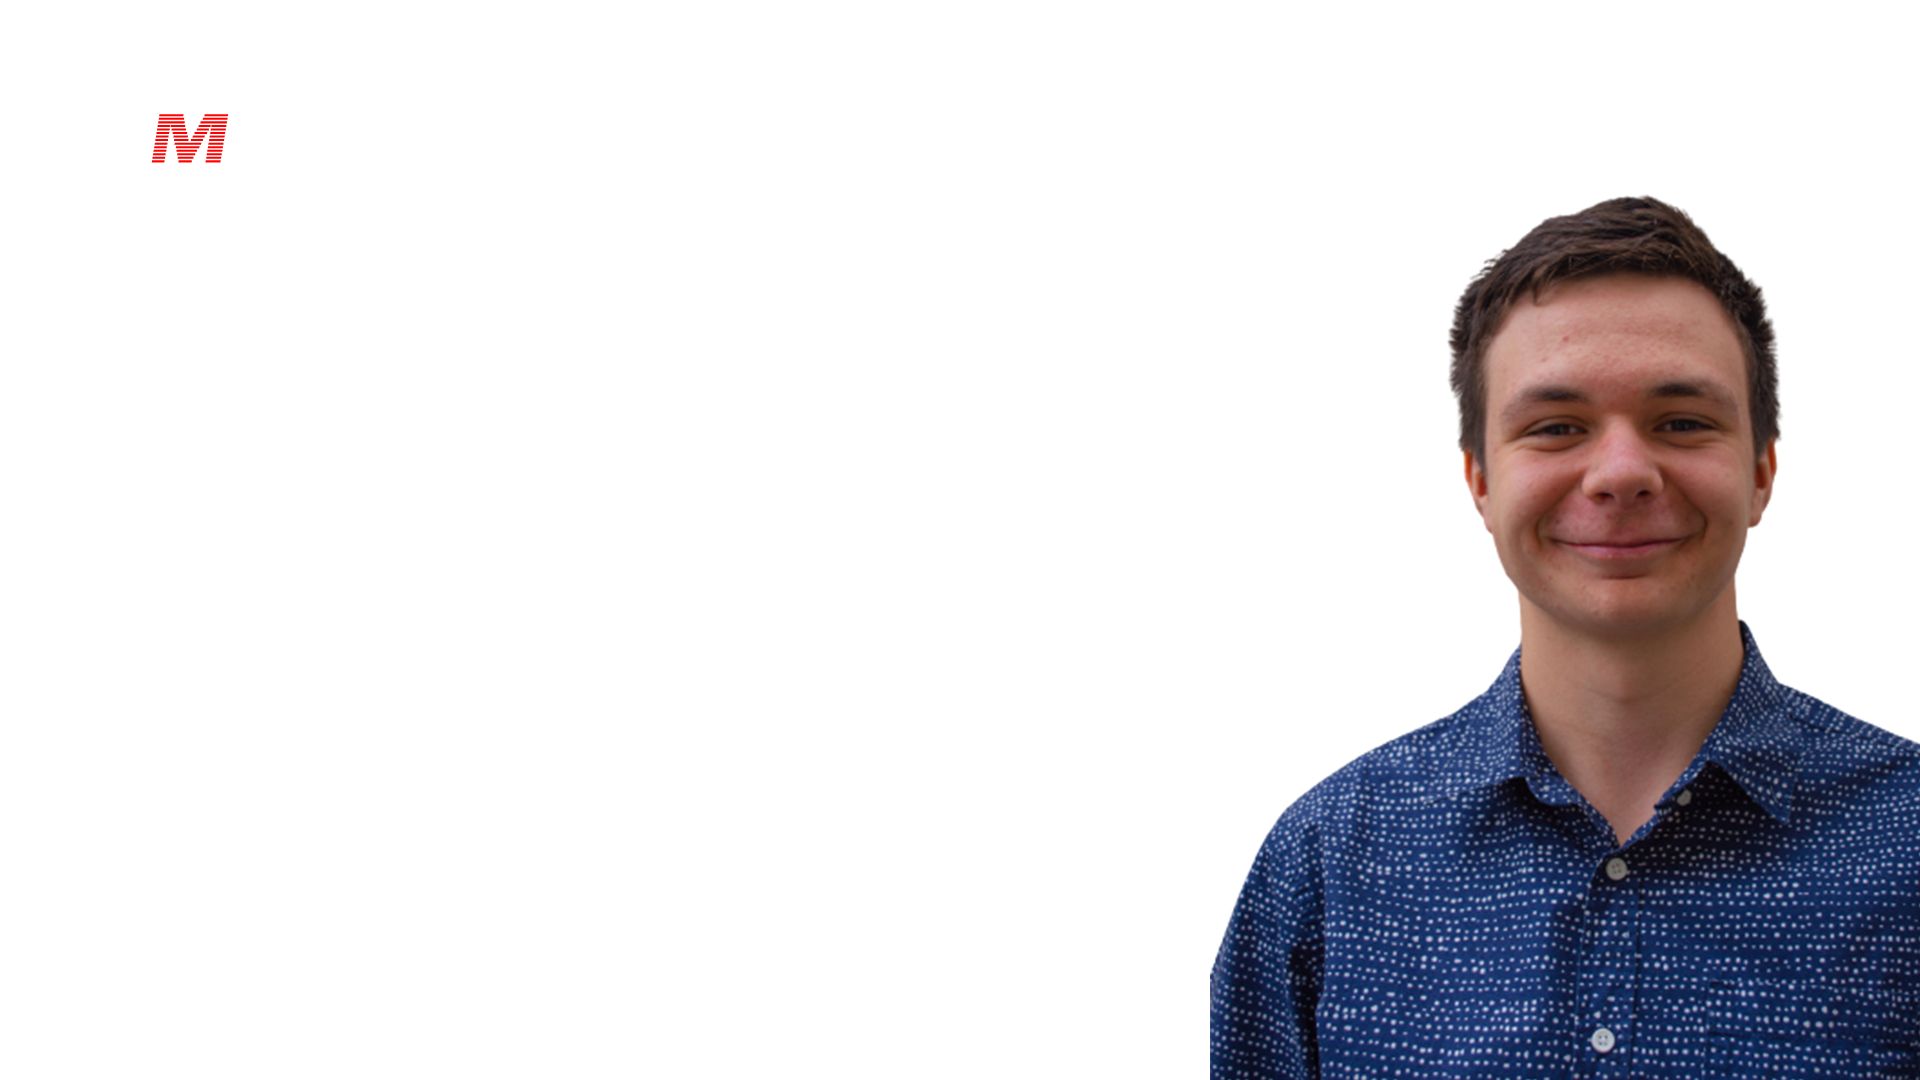
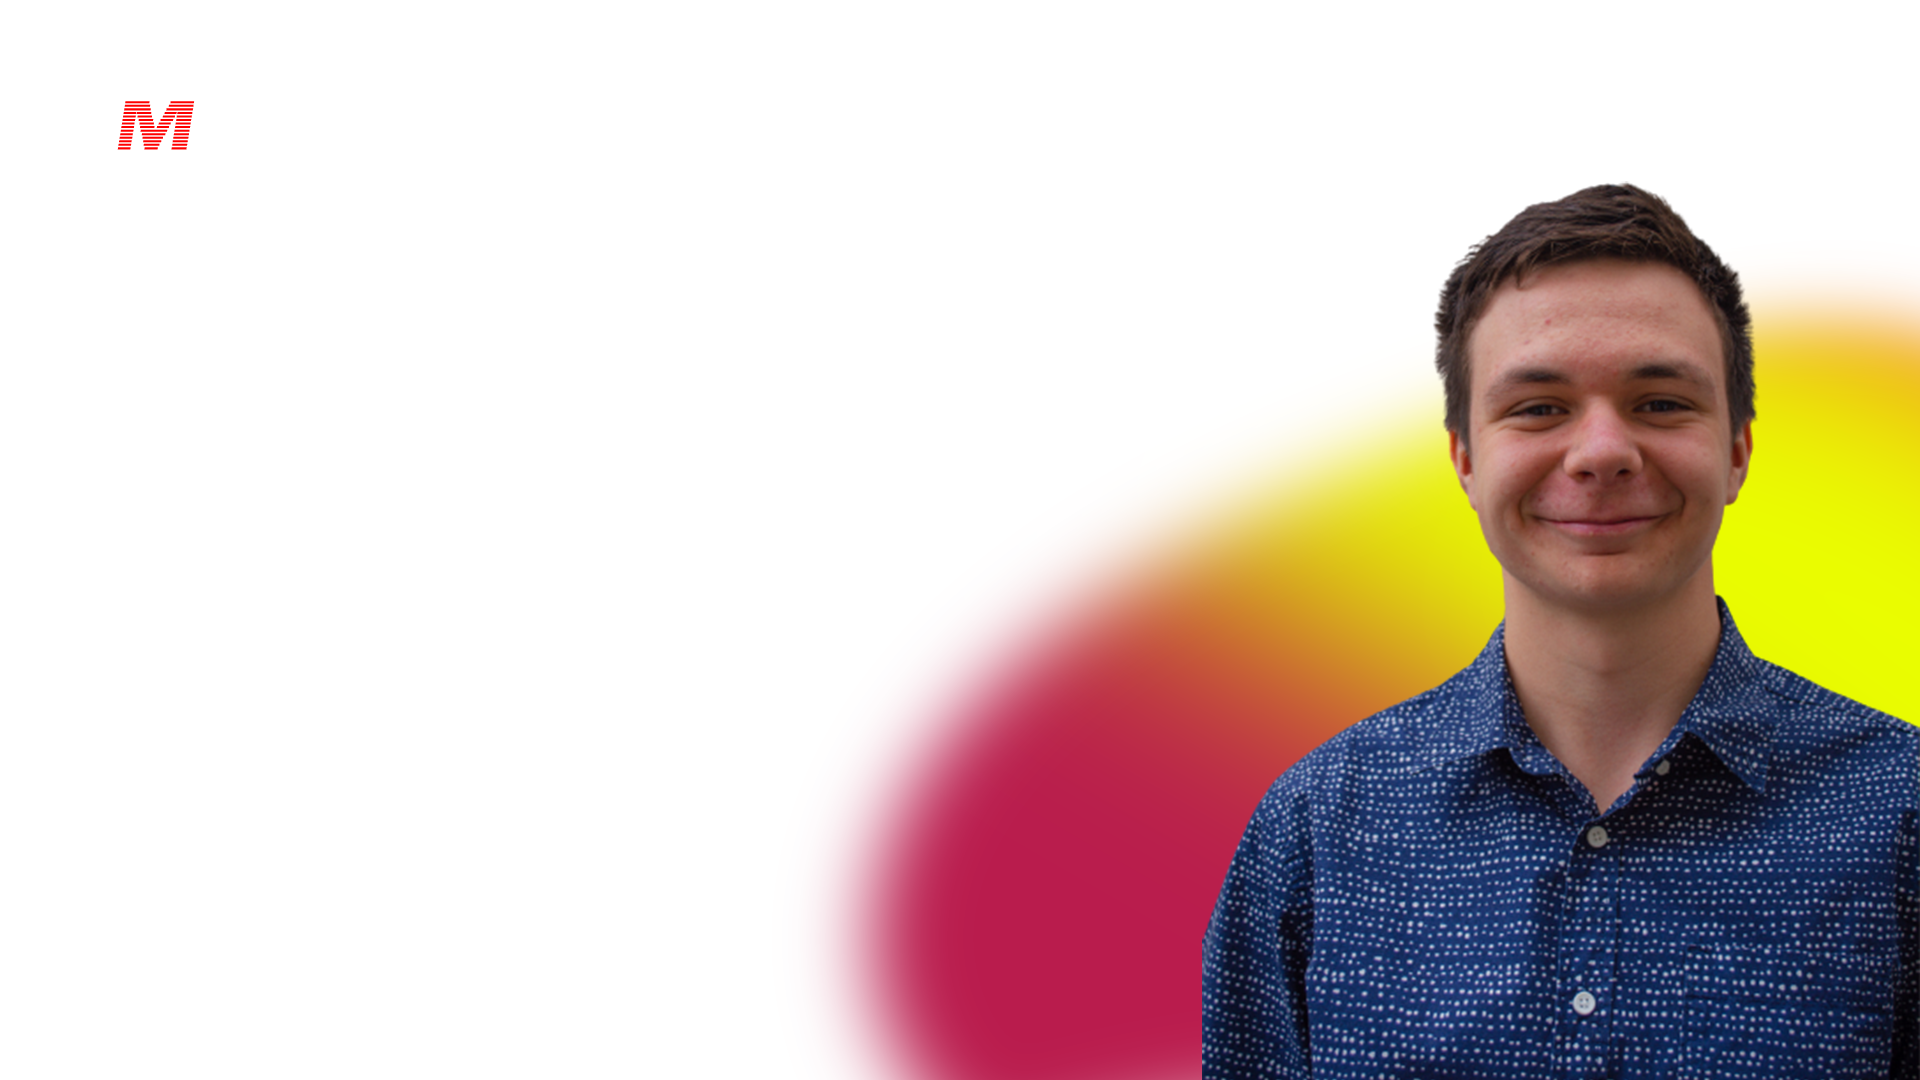
new background

Changed region(s): [[0.4062, 0.1528, 1.0, 1.0], [0.0625, 0.0917, 0.125, 0.1528]]

diff --git a/style.css b/style.css
@@ -49,7 +49,7 @@ body,html {
     transform: translateX(0);
 }
 
-/* --------Background Image-------- */
+/* --------background image-------- */
 
 #header {
     width: 100%;
@@ -62,7 +62,7 @@ body,html {
 /* --------sidemenu-------- */
 
 .container{
-    padding: 45px 30%; 
+    padding: 35px 30%; 
 }
 nav{
     display: flex;
@@ -174,10 +174,9 @@ nav ul li a:hover::after{
 }
 .tab-links.active-link::after{
     width: 50%;
-
+    transition: opacity 0.3 ease-out, visibility 0.1s 0.1s linear;
 }
 .tab-contents ul li{
-    list-style: none;
     margin: 10px -10px;
 }
 .tab-contents ul li span{
@@ -189,6 +188,7 @@ nav ul li a:hover::after{
 }
 .tab-contents.active-tab{
     display: block;
+    
 }
 /* ---------portfolio--------- */
 

diff --git a/index.html b/index.html
@@ -143,7 +143,7 @@
                           
                 <!------contact button------>
 
-                    <a href="#contact" class="btn" id="see-more">CONTACT</a>
+                    <a href="#contact" class="btn" id="see-more">CONTACT ME</a>
                     <div id="contact" style="display: none;">
                       <!-- Contact form code -->
                       <div id="contact">
